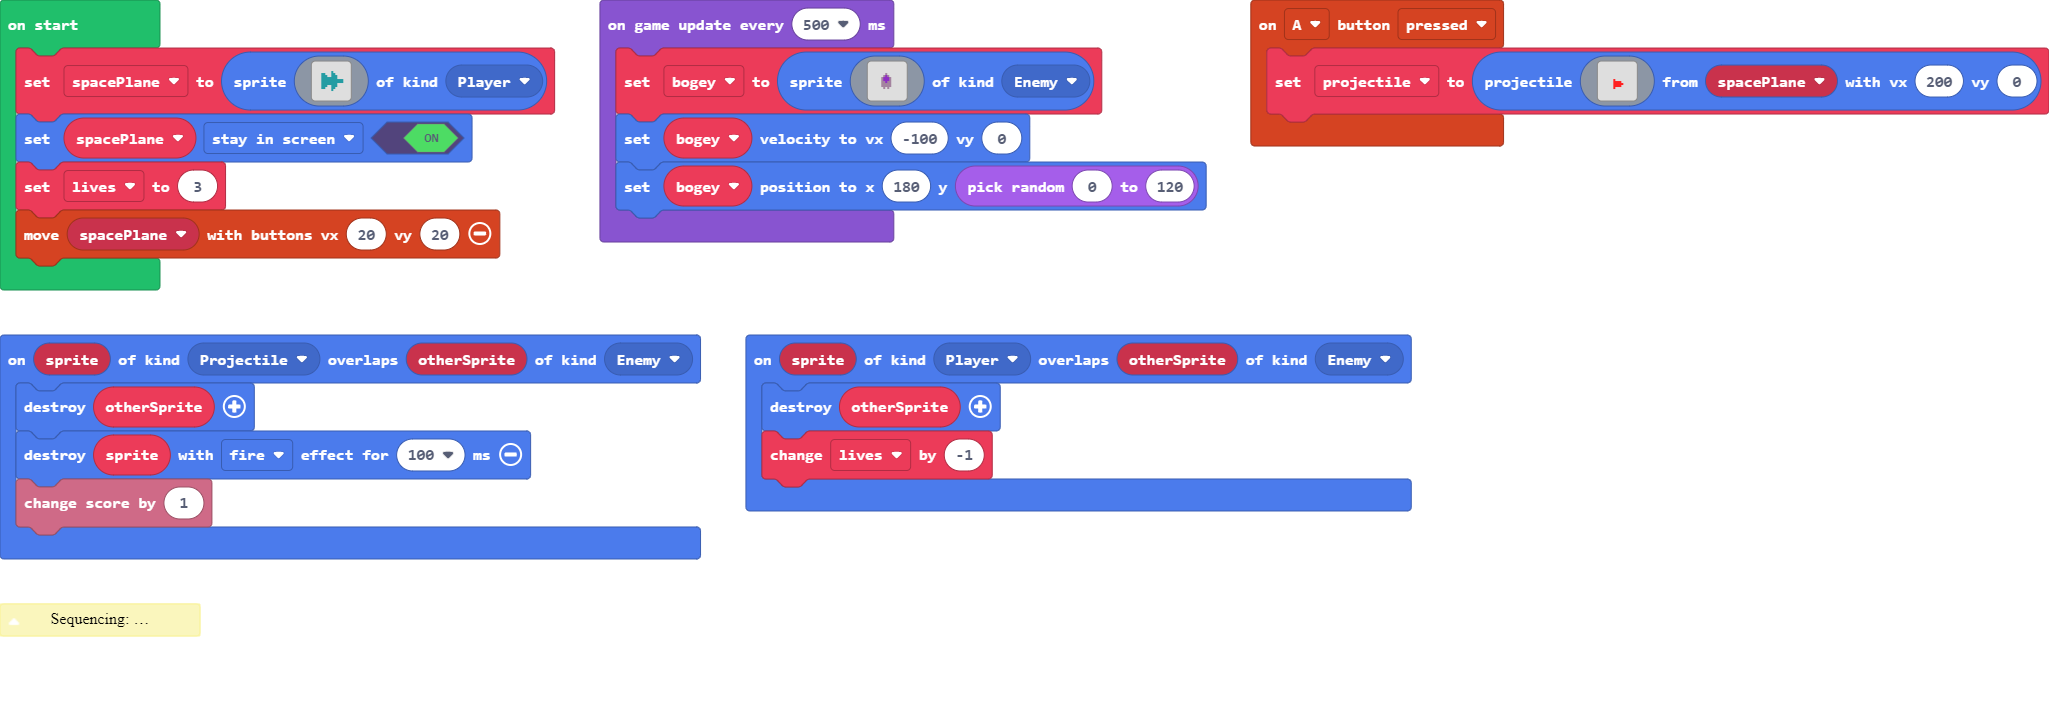
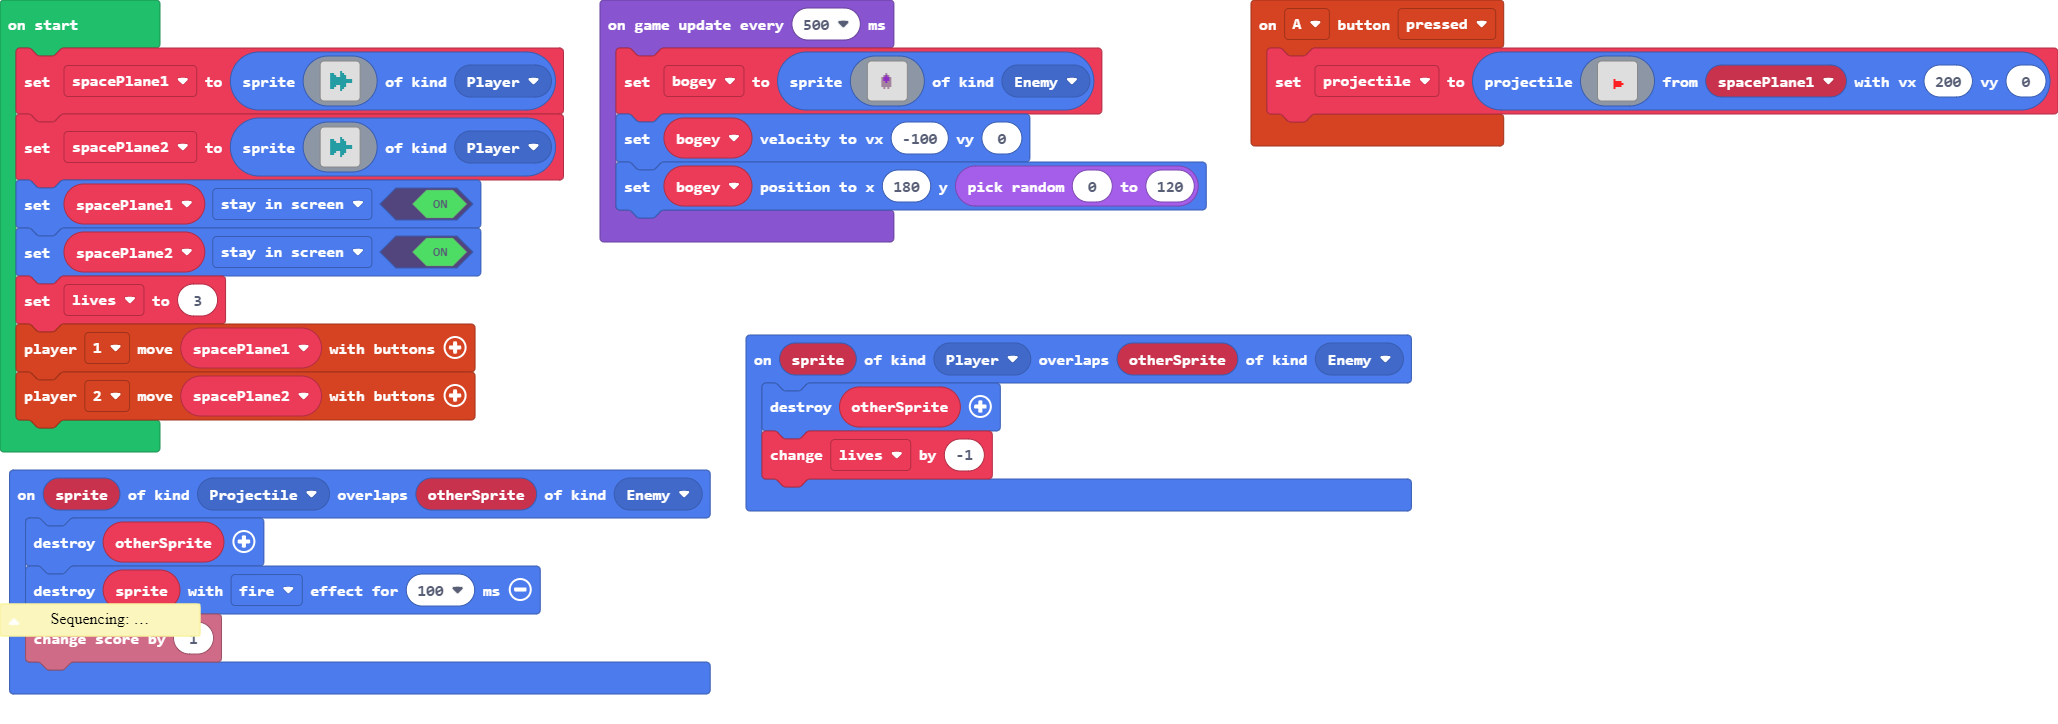
Added 2nd player

Changed region(s): [[0.0, 0.0, 0.6872, 0.9724], [0.5935, 0.0, 0.9683, 0.1823]]

diff --git a/main.ts b/main.ts
@@ -1,6 +1,3 @@
-/**
- * Sequencing:  this code sets up the initial conditions of the game
- */
 controller.A.onEvent(ControllerButtonEvent.Pressed, function () {
     projectile = sprites.createProjectileFromSprite(img`
         . . . . . . . . . . . . . . . . 
@@ -19,8 +16,11 @@ controller.A.onEvent(ControllerButtonEvent.Pressed, function () {
         . . . . . . . . . . . . . . . . 
         . . . . . . . . . . . . . . . . 
         . . . . . . . . . . . . . . . . 
-        `, spacePlane, 200, 0)
+        `, spacePlane1, 200, 0)
 })
+/**
+ * Sequencing:  this code sets up the initial conditions of the game
+ */
 sprites.onOverlap(SpriteKind.Projectile, SpriteKind.Enemy, function (sprite, otherSprite) {
     otherSprite.destroy()
     sprite.destroy(effects.fire, 100)
@@ -32,8 +32,8 @@ sprites.onOverlap(SpriteKind.Player, SpriteKind.Enemy, function (sprite, otherSp
 })
 let bogey: Sprite = null
 let projectile: Sprite = null
-let spacePlane: Sprite = null
-spacePlane = sprites.create(img`
+let spacePlane1: Sprite = null
+spacePlane1 = sprites.create(img`
     . . . . . . . . . . . . . . . . 
     . . . . . . . . . . . . . . . . 
     . . . . . . . . . . . . . . . . 
@@ -51,9 +51,29 @@ spacePlane = sprites.create(img`
     . . . . . . . . . . . . . . . . 
     . . . . . . . . . . . . . . . . 
     `, SpriteKind.Player)
-spacePlane.setFlag(SpriteFlag.StayInScreen, true)
+let spacePlane2 = sprites.create(img`
+    . . . . . . . . . . . . . . . . 
+    . . . . . . . . . . . . . . . . 
+    . . . . . . . . . . . . . . . . 
+    . . . . . . . . 6 . . . . . . . 
+    . . . 6 6 . . . 6 6 . . . . . . 
+    . . . 6 6 6 . . 6 6 6 . . . . . 
+    . . . 6 6 6 6 6 6 6 6 . . . . . 
+    . . . 6 6 6 6 6 6 6 6 6 6 6 . . 
+    . . . 6 6 6 6 6 6 6 6 6 6 6 . . 
+    . . . 6 6 6 6 6 6 6 6 . . . . . 
+    . . . 6 6 6 . . 6 6 6 . . . . . 
+    . . . 6 6 . . . 6 6 . . . . . . 
+    . . . . . . . . 6 . . . . . . . 
+    . . . . . . . . . . . . . . . . 
+    . . . . . . . . . . . . . . . . 
+    . . . . . . . . . . . . . . . . 
+    `, SpriteKind.Player)
+spacePlane1.setFlag(SpriteFlag.StayInScreen, true)
+spacePlane2.setFlag(SpriteFlag.StayInScreen, true)
 let lives = 3
-controller.moveSprite(spacePlane, 20, 20)
+controller.player1.moveSprite(spacePlane1)
+controller.player2.moveSprite(spacePlane2)
 game.onUpdateInterval(500, function () {
     bogey = sprites.create(img`
         . . . . . . . . . . . . . . . . 
